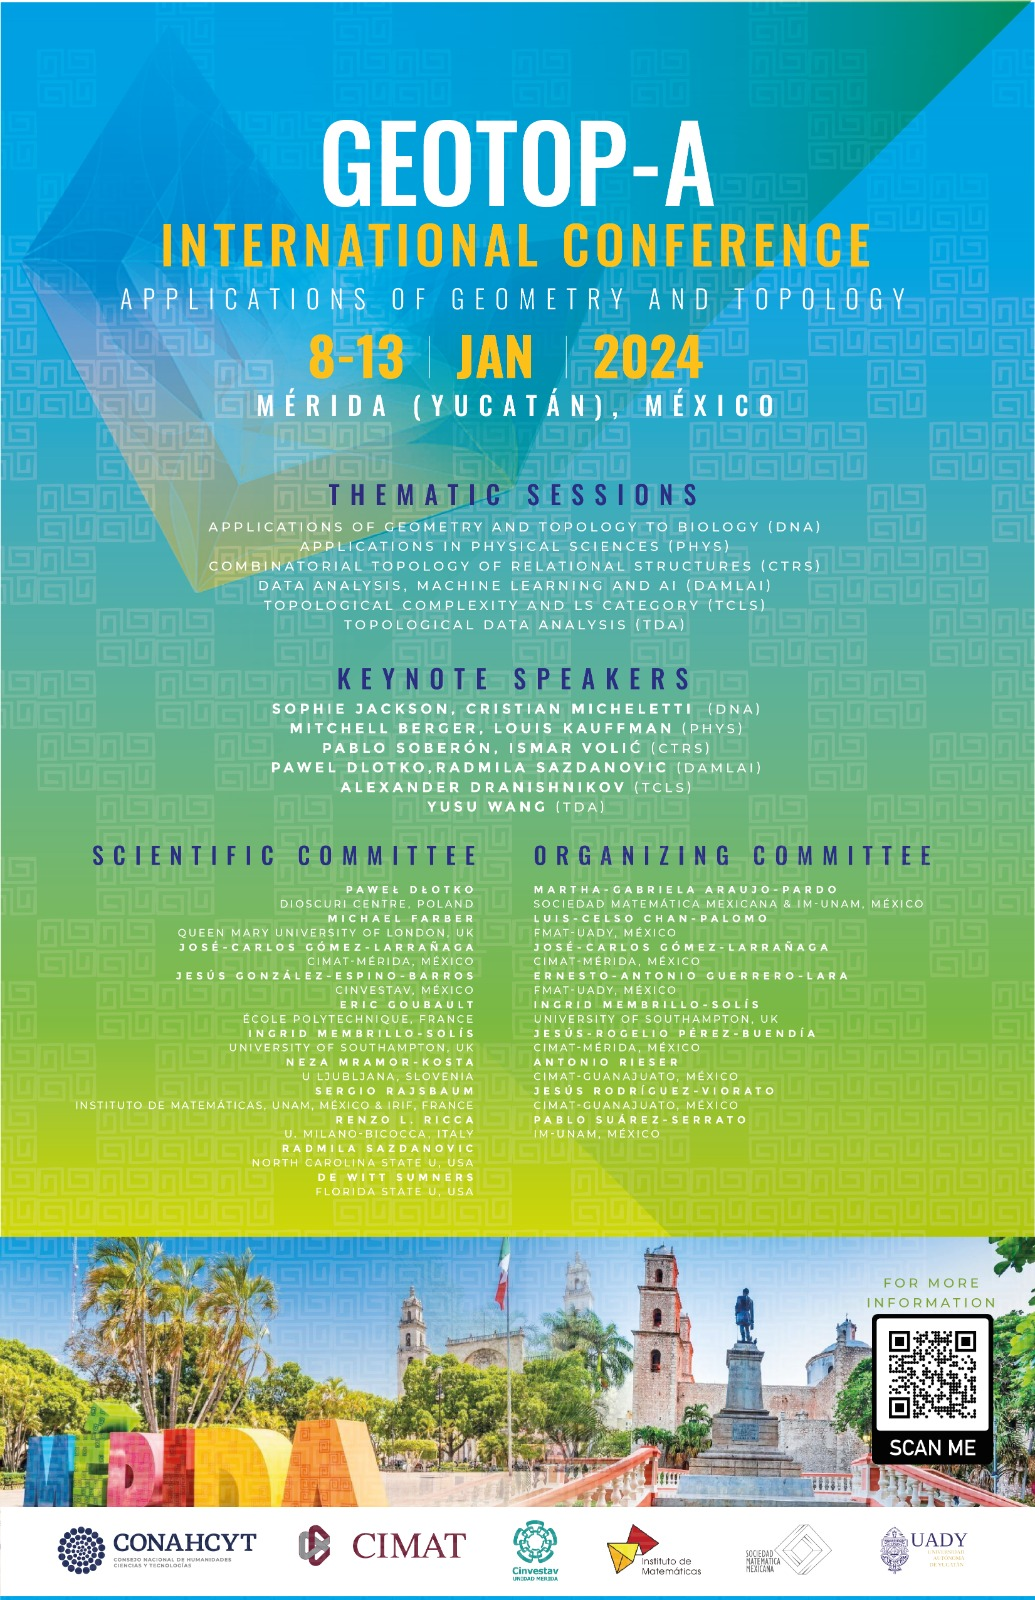
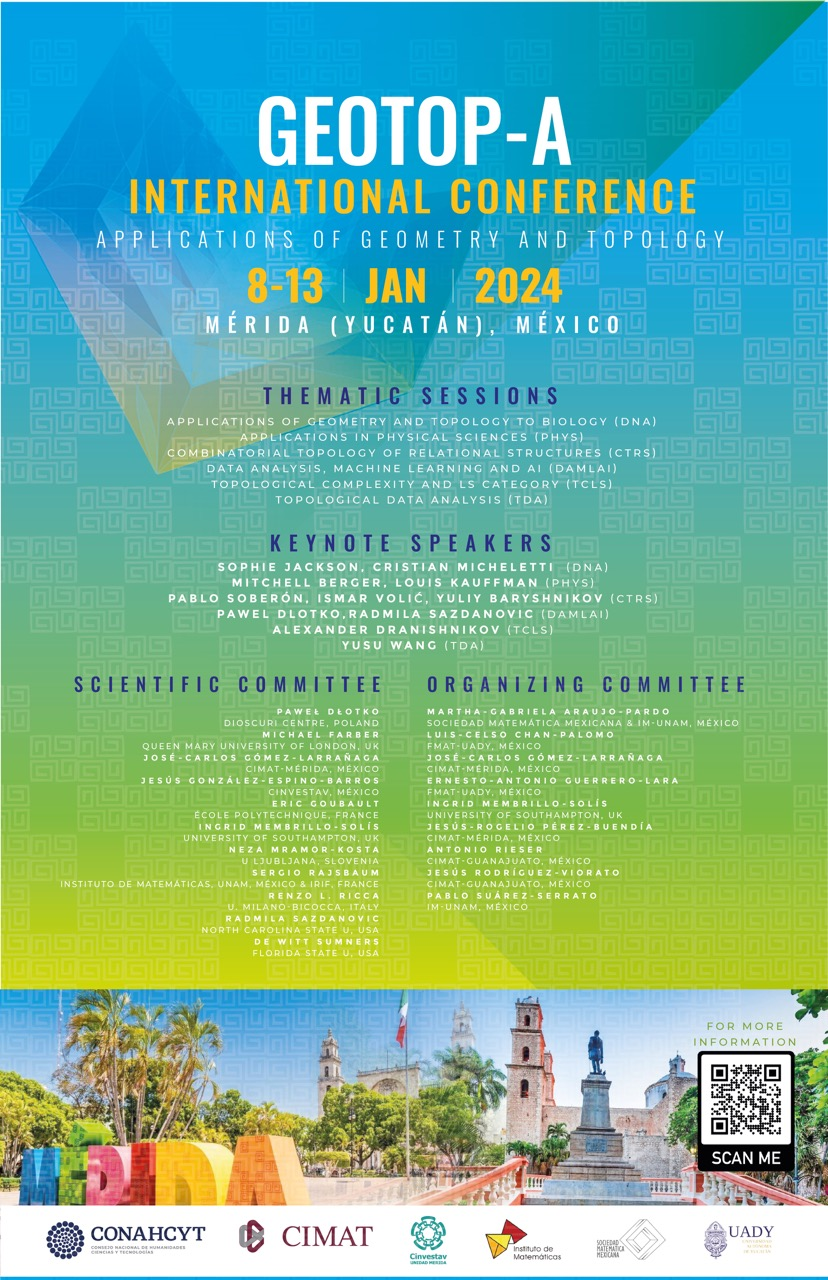
chore(merida24): changes on speakers and poster

diff --git a/components/Proceedings/ListParticipants/list-of-participants.js b/components/Proceedings/ListParticipants/list-of-participants.js
@@ -30,7 +30,6 @@ const notRegisteredParticipantsPerSession = {
         { 'completeName': "Mitchell Berger", 'surname': 'Berger' },
         { 'completeName': "J. Cantarella", 'surname': 'Cantarella' },
         { 'completeName': "Yasuhide Fukumoto", 'surname': 'Fukumoto' },
-        { 'completeName': "L.H. Kauffman", 'surname': 'Kauffman' },
         { 'completeName': "X. Liu", 'surname': 'Liu' },
         { 'completeName': "R.L. Ricca", 'surname': 'Ricca' },
         { 'completeName': "T. Sakajo", 'surname': 'Sakajo' },
@@ -49,6 +48,7 @@ const notRegisteredParticipantsPerSession = {
         { 'completeName': 'Pablo Soberón', 'surname': 'Soberón' },
         { 'completeName': 'Ismar Volić', 'surname': 'Volić' },
         { 'completeName': 'Yuliy Baryshnikov', 'surname': 'Baryshnikov' },
+        { 'completeName': 'Joseph Root', 'surname': 'Root' },
     ],
     'DAMLAI': [
         { 'completeName': 'Manuel Mellado Cuerno', 'surname': 'Cuerno' },
@@ -78,6 +78,7 @@ const notRegisteredParticipantsPerSession = {
         { 'completeName': 'Yusu Wang', 'surname': 'Wang' },
         { 'completeName': 'Iris Yoon', 'surname': 'Yoon' },
         { 'completeName': 'Lori Ziegelmaier', 'surname': 'Ziegelmaier' },
+        { 'completeName': 'Javier Arsuaga', 'surname': 'Arsuaga' },
     ]
 };
 

diff --git a/pages/[meeting]/registration.js b/pages/[meeting]/registration.js
@@ -35,7 +35,7 @@ export default function AbstractSubmission(props) {
             <ul>
                 <li>Deadline for the submission of abstracts (Oral contributions - 25 mins): September 30 (<span style={{ color: 'red' }}>CLOSED</span>)</li>
                 <li>Deadline for the submission of abstracts (Poster presentations - 5 mins): September 30 (<span style={{ color: 'red' }}>CLOSED</span>)</li>
-                <li>Deadline for the submission of abstracts (Keynote lectures - 45 mins): October 31</li>
+                <li>Deadline for the submission of abstracts (Keynote lectures - 45 mins and Invited speakers - 25 minutes): October 31</li>
                 <li>Deadline for registration for attendees: November 30</li>
             </ul>
 

diff --git a/pages/[meeting]/keynote-speakers.js b/pages/[meeting]/keynote-speakers.js
@@ -49,7 +49,6 @@ export default function KeynoteSpeakers(props) {
                     (DNA)<br /><br />
 
                     <strong>Mitchell Berger</strong><br />
-                    <strong>Louis Kauffman</strong><br />
                     (PHYS)<br /><br />
 
                     <strong>Yuliy Baryshnikov</strong><br />
